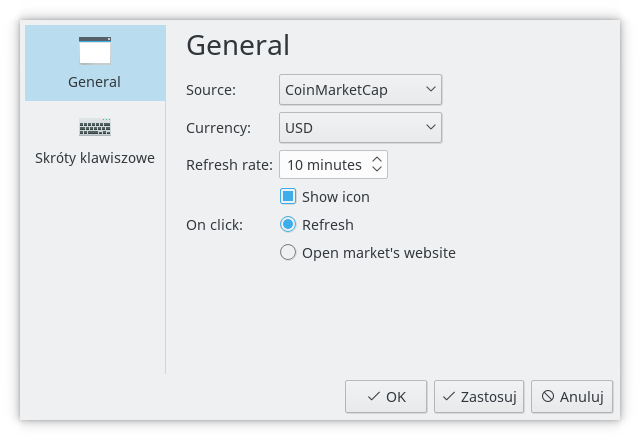
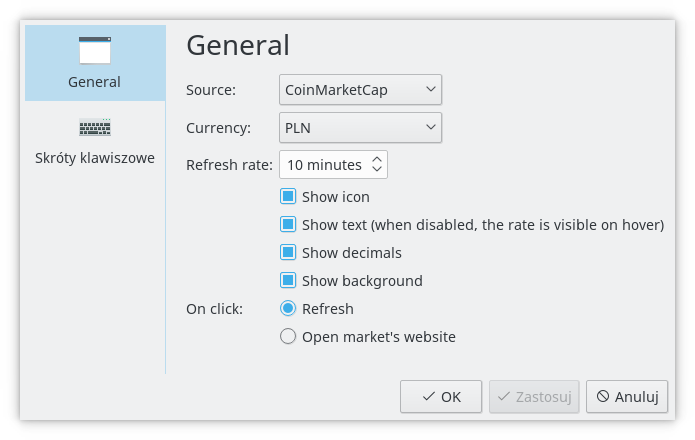
1.2 new exchange sources, showDecimals & showBackground options

diff --git a/package/contents/ui/main.qml b/package/contents/ui/main.qml
@@ -22,6 +22,7 @@ Item {
 	
 	Plasmoid.preferredRepresentation: Plasmoid.compactRepresentation
 	Plasmoid.toolTipTextFormat: Text.RichText
+	Plasmoid.backgroundHints: plasmoid.configuration.showBackground ? "StandardBackground" : "NoBackground"
 	
 	Plasmoid.compactRepresentation: Item {
 		property int textMargin: bitcoinIcon.height * 0.25
@@ -116,6 +117,9 @@ Item {
 		onRefreshRateChanged: {
 			bitcoinTimer.restart();
 		}
+		onShowDecimalsChanged: {
+			bitcoinTimer.restart();
+		}
 	}
 	
 	Timer {
@@ -128,7 +132,13 @@ Item {
 			root.updatingRate = true;
 			
 			var result = Bitcoin.getRate(plasmoid.configuration.source, plasmoid.configuration.currency, function(rate) {
-				root.bitcoinRate = Number(rate).toLocaleCurrencyString(Qt.locale(), Bitcoin.currencySymbols[plasmoid.configuration.currency]);
+				if(!plasmoid.configuration.showDecimals) rate = Math.floor(rate);
+				
+				var rateText = Number(rate).toLocaleCurrencyString(Qt.locale(), Bitcoin.currencySymbols[plasmoid.configuration.currency]);
+				
+				if(!plasmoid.configuration.showDecimals) rateText = rateText.replace(Qt.locale().decimalPoint + '00', '');
+				
+				root.bitcoinRate = rateText;
 				
 				var toolTipSubText = '<b>' + root.bitcoinRate + '</b>';
 				toolTipSubText += '<br />';

diff --git a/package/contents/ui/config/configGeneral.qml b/package/contents/ui/config/configGeneral.qml
@@ -14,6 +14,8 @@ Item {
 	property alias cfg_refreshRate: refreshRate.value
 	property alias cfg_showIcon: showIcon.checked
 	property alias cfg_showText: showText.checked
+	property alias cfg_showDecimals: showDecimals.checked
+	property alias cfg_showBackground: showBackground.checked
 	property variant sourceList: { Bitcoin.getAllSources() }
 	property variant currencyList: { Bitcoin.getAllCurrencies() }
 
@@ -105,13 +107,31 @@ Item {
 		}
 		
 		Label {
+			text: ""
+		}
+		
+		CheckBox {
+			id: showDecimals
+			text: i18n("Show decimals")
+		}
+		
+		Label {
+			text: ""
+		}
+		
+		CheckBox {
+			id: showBackground
+			text: i18n("Show background")
+		}
+		
+		Label {
 			text: i18n("On click:")
 		}
 		
 		ExclusiveGroup { id: clickGroup }
 		
 		RadioButton {
-			Layout.row: 5
+			Layout.row: 7
 			Layout.column: 1
 			exclusiveGroup: clickGroup
 			checked: cfg_onClickAction == 'refresh'
@@ -122,7 +142,7 @@ Item {
 		}
 
 		RadioButton {
-			Layout.row: 6
+			Layout.row: 8
 			Layout.column: 1
 			exclusiveGroup: clickGroup
 			checked: cfg_onClickAction == 'website'

diff --git a/package/contents/code/bitcoin.js b/package/contents/code/bitcoin.js
@@ -44,6 +44,42 @@ var sources = [
 			return data.USD.last;
 		}
 	},
+	{
+		name: 'Bitfinex',
+		url: 'https://api.bitfinex.com/v1/pubticker/btcusd',
+		homepage: 'https://www.bitfinex.com/',
+		currency: 'USD',
+		getRate: function(data) {
+			return data.ask;
+		}
+	},
+	{
+		name: 'Bitstamp',
+		url: 'https://www.bitstamp.net/api/ticker',
+		homepage: 'https://www.bitstamp.net/',
+		currency: 'USD',
+		getRate: function(data) {
+			return data.ask;
+		}
+	},
+	{
+		name: 'Kraken',
+		url: 'https://api.kraken.com/0/public/Ticker?pair=XXBTZUSD',
+		homepage: 'https://www.kraken.com',
+		currency: 'USD',
+		getRate: function(data) {
+			return data.result.XXBTZUSD.a[0];
+		}
+	},
+	{
+		name: 'GDAX',
+		url: 'https://api-public.sandbox.gdax.com/products/BTC-USD/ticker',
+		homepage: 'https://www.gdax.com/',
+		currency: 'USD',
+		getRate: function(data) {
+			return data.ask;
+		}
+	},
 ];
 
 var currencyApiUrl = 'http://api.fixer.io';

diff --git a/README.md b/README.md
@@ -18,6 +18,10 @@ Use additional `-g` flag to install plasmoid globally, for all users.
 - Bitmaszyna.pl
 - BitBay
 - Blockchain.info
+- Bitfinex
+- Bitstamp
+- Kraken
+- GDAX
 
 ## Supported currencies
 - USD ($) - US Dollar
@@ -40,6 +44,11 @@ Use additional `-g` flag to install plasmoid globally, for all users.
 ![Bitcoin Price Plasmoid (Configuration)](https://raw.githubusercontent.com/MakG10/plasma-applet-bitcoin-price/master/bitcoin-price-config.png)
 
 ## Changelog
+
+### 1.2
+- Added new exchange sources: Bitfinex, Bitstamp, Kraken, GDAX
+- Added "Show decimals" option to show/hide decimals in the price
+- Added "Show background" option to show/hide plasmoid background on the desktop
 
 ### 1.1
 - Fixed displaying on panels (issue #1)
